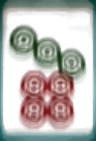
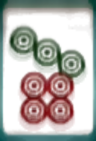
识别算法升级：样本级匹配(kNN)+粗粒度快速搜索，9张示例图100%识别正确

diff --git a/template_manager.py b/template_manager.py
@@ -7,6 +7,7 @@ import numpy as np
 TEMPLATE_PATH = "templates"
 CONFIG_PATH = "config.json"
 TEMPLATE_SIZE = (141, 96)  # (高, 宽)，所有模板统一尺寸
+COARSE_SIZE = (48, 32)     # 布局搜索用的粗粒度灰度尺寸（高, 宽）
 
 # 同会话内每张牌的修正次数（用于模板滚动平均，重启后重置）
 _sample_counts = {}
@@ -65,6 +66,37 @@ def _resize_to_template(img):
     return img
 
 
+def _align_image(new, ref, max_shift=3):
+    """
+    将 new 平移配准到 ref（相位相关，亚像素），返回对齐后的图像。
+    对齐不可靠（偏移过大或对齐后相关性反而下降）时返回 None，由调用方决定。
+    只修正轻微错位（默认 ±3px）：重复花纹（如 9p 多排圆点）相位相关可能
+    锁定到错误周期产生大位移，超出范围一律视为不可靠。
+    """
+    if new is None or ref is None or new.shape != ref.shape:
+        return None
+    g_new = cv2.cvtColor(new, cv2.COLOR_BGR2GRAY).astype(np.float32)
+    g_ref = cv2.cvtColor(ref, cv2.COLOR_BGR2GRAY).astype(np.float32)
+    try:
+        (dx, dy), _ = cv2.phaseCorrelate(g_ref, g_new)
+    except cv2.error:
+        return None
+    if abs(dx) > max_shift or abs(dy) > max_shift:
+        return None
+
+    m = np.float32([[1, 0, -dx], [0, 1, -dy]])
+    aligned = cv2.warpAffine(new, m, (new.shape[1], new.shape[0]),
+                             borderMode=cv2.BORDER_REPLICATE)
+    # 校验：对齐后与参考的相关性应不低于对齐前
+    def corr(p, q):
+        pa = p.astype(np.float32) - p.astype(np.float32).mean()
+        qa = q.astype(np.float32) - q.astype(np.float32).mean()
+        return float((pa * qa).sum() / (np.linalg.norm(pa) * np.linalg.norm(qa) + 1e-9))
+    if corr(aligned, ref) < corr(new, ref) - 1e-6:
+        return None
+    return aligned
+
+
 def load_templates():
     """从 TEMPLATE_PATH 加载 34 张模板并预处理，构建匹配矩阵。"""
     templates = []
@@ -88,6 +120,45 @@ def load_templates():
     return templates
 
 
+def load_samples():
+    """
+    加载每张牌的全部对齐样本（templates/samples/{tile_id}/*.png），
+    构建示例矩阵供样本级匹配使用（kNN 式，取每类最高分）。
+    """
+    global SAMPLES, EXEMPLAR_MATRIX, EXEMPLAR_IDS
+    SAMPLES = {}
+    base = os.path.join(TEMPLATE_PATH, "samples")
+    if not os.path.isdir(base):
+        EXEMPLAR_MATRIX = None
+        EXEMPLAR_IDS = []
+        return SAMPLES
+    for d in sorted(os.listdir(base)):
+        if not d.isdigit():
+            continue
+        tid = int(d)
+        paths = sorted(f for f in os.listdir(os.path.join(base, d)) if f.endswith(".png"))
+        imgs = []
+        for p in paths:
+            img = cv2.imread(os.path.join(base, d, p), cv2.IMREAD_COLOR)
+            if img is not None:
+                imgs.append(_resize_to_template(preprocess_tile(img)))
+        if imgs:
+            SAMPLES[tid] = imgs
+
+    rows = []
+    ids = []
+    for tid in sorted(SAMPLES):
+        for img in SAMPLES[tid]:
+            vec = img.astype(np.float32).reshape(-1)
+            vec = vec - vec.mean()
+            n = np.linalg.norm(vec)
+            rows.append(vec / n if n > 1e-6 else np.zeros_like(vec))
+            ids.append(tid)
+    EXEMPLAR_MATRIX = np.array(rows, dtype=np.float32) if rows else None
+    EXEMPLAR_IDS = ids
+    return SAMPLES
+
+
 def rebuild_template_matrix(tpl_list=None):
     """
     预计算模板的归一化向量矩阵（BGR 三通道拼接后去均值、单位化），
@@ -107,6 +178,29 @@ def rebuild_template_matrix(tpl_list=None):
         rows.append(vec / n if n > 1e-6 else np.zeros_like(vec))
     TEMPLATE_MATRIX = np.array(rows, dtype=np.float32)
     TEMPLATE_SIZE = (h, w)
+    rebuild_coarse_matrix(tpl_list)
+
+
+def rebuild_coarse_matrix(tpl_list=None):
+    """
+    构建粗粒度灰度模板矩阵，用于布局搜索（只求快速确定分档数/偏移，
+    最终判定仍用全彩样本级匹配）。
+    """
+    global COARSE_MATRIX
+    if tpl_list is None:
+        tpl_list = templates
+    if not tpl_list:
+        return
+    h, w = COARSE_SIZE
+    rows = []
+    for _, tpl in tpl_list:
+        gray = cv2.cvtColor(tpl, cv2.COLOR_BGR2GRAY)
+        small = cv2.resize(gray, (w, h), interpolation=cv2.INTER_AREA)
+        vec = small.astype(np.float32).reshape(-1)
+        vec = vec - vec.mean()
+        n = np.linalg.norm(vec)
+        rows.append(vec / n if n > 1e-6 else np.zeros_like(vec))
+    COARSE_MATRIX = np.array(rows, dtype=np.float32)
 
 
 def update_template(tile_id, img):
@@ -128,6 +222,10 @@ def update_template(tile_id, img):
             # 旧模板是灰度（历史版本采集）：直接替换为彩色，避免混色
             n = 0
         elif old.shape[:2] == new.shape[:2]:
+            # 加权平均前先做平移配准，消除采集错位造成的重影
+            aligned = _align_image(new, old)
+            if aligned is not None:
+                new = aligned
             avg = (old.astype(np.float32) * n + new.astype(np.float32)) / (n + 1)
             new = np.clip(avg, 0, 255).astype(np.uint8)
     _sample_counts[tile_id] = n + 1
@@ -159,7 +257,13 @@ def build_template_library(origin_dir="templates_origin", samples_by_id=None, ta
                 if s is not None and s.size > 0:
                     refs.append(_resize_to_template(preprocess_tile(_to_bgr(s))))
         if refs:
-            avg = np.mean(np.stack(refs), axis=0).astype(np.uint8)
+            # 以第一张为基准，其余样本平移配准后再平均，避免重影
+            base = refs[0]
+            aligned_refs = [base]
+            for s in refs[1:]:
+                a = _align_image(s, base)
+                aligned_refs.append(a if a is not None else s)
+            avg = np.mean(np.stack(aligned_refs), axis=0).astype(np.uint8)
             cv2.imwrite(os.path.join(target_dir, f"{i}.png"), avg)
             built.append((i, len(refs)))
     return built
@@ -176,5 +280,10 @@ def get_tile_name(tile_id):
     return f"{val}{suit_map[suit]}"
 
 
-# 全局模板变量（供 vision.py 使用）
+# 全局变量（供 vision.py 使用）
+SAMPLES = {}
+EXEMPLAR_MATRIX = None
+EXEMPLAR_IDS = []
+COARSE_MATRIX = None
 templates = load_templates()
+load_samples()

diff --git a/vision.py b/vision.py
@@ -19,6 +19,13 @@ os.makedirs(OUTPUT_PATH, exist_ok=True)
 MIN_CONF = 0.30  # 最低可接受匹配分数
 
 
+def _corr2d(a, b):
+    """两个等尺寸 BGR 图像的归一化相关（多通道）。"""
+    pa = a.astype(np.float32) - a.astype(np.float32).mean()
+    qa = b.astype(np.float32) - b.astype(np.float32).mean()
+    return float((pa * qa).sum() / (np.linalg.norm(pa) * np.linalg.norm(qa) + 1e-9))
+
+
 def match_template_with_scores(roi):
     """
     彩色模板匹配：把 ROI 与 34 张模板做多通道归一化相关
@@ -43,6 +50,62 @@ def match_template_with_scores(roi):
     scores = (tm.TEMPLATE_MATRIX @ vec) / norm
     order = np.argsort(-scores)
     return [(int(tid), float(scores[tid])) for tid in order]
+
+
+def match_template_with_scores_fast(roi):
+    """
+    粗粒度灰度快速匹配：仅用于布局搜索（分档数/偏移），
+    计算量约为全彩匹配的 1/30，最终判定由样本级匹配负责。
+    """
+    h, w = tm.COARSE_SIZE
+    gray = cv2.cvtColor(roi, cv2.COLOR_BGR2GRAY) if roi.ndim == 3 else roi
+    small = cv2.resize(gray, (w, h), interpolation=cv2.INTER_AREA)
+    vec = small.astype(np.float32).reshape(-1)
+    vec = vec - vec.mean()
+    norm = np.linalg.norm(vec)
+    if tm.COARSE_MATRIX is None or tm.COARSE_MATRIX.shape[1] != vec.shape[0]:
+        tm.rebuild_coarse_matrix()
+    if norm < 1e-6:
+        return [(tid, 0.0) for tid in range(len(tm.COARSE_MATRIX))]
+    scores = (tm.COARSE_MATRIX @ vec) / norm
+    order = np.argsort(-scores)
+    return [(int(tid), float(scores[tid])) for tid in order]
+
+
+def match_template_with_scores_exemplar(roi, top_k=8):
+    """
+    样本级匹配（kNN 式）：快速匹配取 top_k 候选后，用每张牌的全部对齐样本
+    重新打分并取该牌最高分。平均模板会模糊细节，样本级匹配对临界牌（如 4w/8w）
+    判别力更强。无样本时回退到平均模板分数。
+    """
+    base = match_template_with_scores(roi)
+    if not base:
+        return base
+    tpl_h, tpl_w = tm.TEMPLATE_SIZE
+    if roi.ndim == 2:
+        roi = cv2.cvtColor(roi, cv2.COLOR_GRAY2BGR)
+    if roi.shape[:2] != (tpl_h, tpl_w):
+        roi = cv2.resize(roi, (tpl_w, tpl_h), interpolation=cv2.INTER_AREA)
+    vec = roi.astype(np.float32).reshape(-1)
+    vec = vec - vec.mean()
+    norm = np.linalg.norm(vec)
+
+    best = {}
+    if tm.EXEMPLAR_MATRIX is not None and norm > 1e-6:
+        candidate_ids = set(tid for tid, _ in base[:top_k])
+        rows_sel = [i for i, tid in enumerate(tm.EXEMPLAR_IDS) if tid in candidate_ids]
+        if rows_sel:
+            scores = (tm.EXEMPLAR_MATRIX[rows_sel] @ vec) / norm
+            for s, ri in zip(scores, rows_sel):
+                tid = int(tm.EXEMPLAR_IDS[ri])
+                if s > best.get(tid, -1e9):
+                    best[tid] = float(s)
+
+    # 平均模板分数兜底（无样本的牌或分数更高时）
+    for tid, s in base:
+        if tid not in best or s > best[tid]:
+            best[tid] = s
+    return sorted(best.items(), key=lambda x: -x[1])
 
 
 def viterbi_correct(tile_candidates):
@@ -212,7 +275,7 @@ def _scan_region(region_bgr, num_tiles, tile_width, offset):
         roi = region_bgr[top:bottom, left:right]
         if roi.shape[0] < 20 or roi.shape[1] < 20:
             return [], [], False
-        scores = match_template_with_scores(roi)
+        scores = match_template_with_scores_fast(roi)
         if scores and scores[0][1] > MIN_CONF:
             cands.append(scores[:3])
             confs.append(scores[0][1])
@@ -339,7 +402,7 @@ def recognize_tiles_from_image(img_bgr, debug_tag=None):
         if roi.shape[0] < 20 or roi.shape[1] < 20:
             tile_candidates.append([])
             continue
-        scores = match_template_with_scores(roi)
+        scores = match_template_with_scores_exemplar(roi)
         if scores and scores[0][1] > MIN_CONF:
             tile_candidates.append(scores[:3])
         else:
@@ -354,7 +417,7 @@ def recognize_tiles_from_image(img_bgr, debug_tag=None):
         rx0, rx1, top2, bottom2 = second_rect
         crop_x0 = max(0, min(rx0, w2 - 1))
         crop_x1 = min(w2, max(rx1, crop_x0 + 1))
-        scores = match_template_with_scores(region2[top2:bottom2, crop_x0:crop_x1])
+        scores = match_template_with_scores_exemplar(region2[top2:bottom2, crop_x0:crop_x1])
         if scores:
             tile_candidates.append(scores[:3])
         else:
